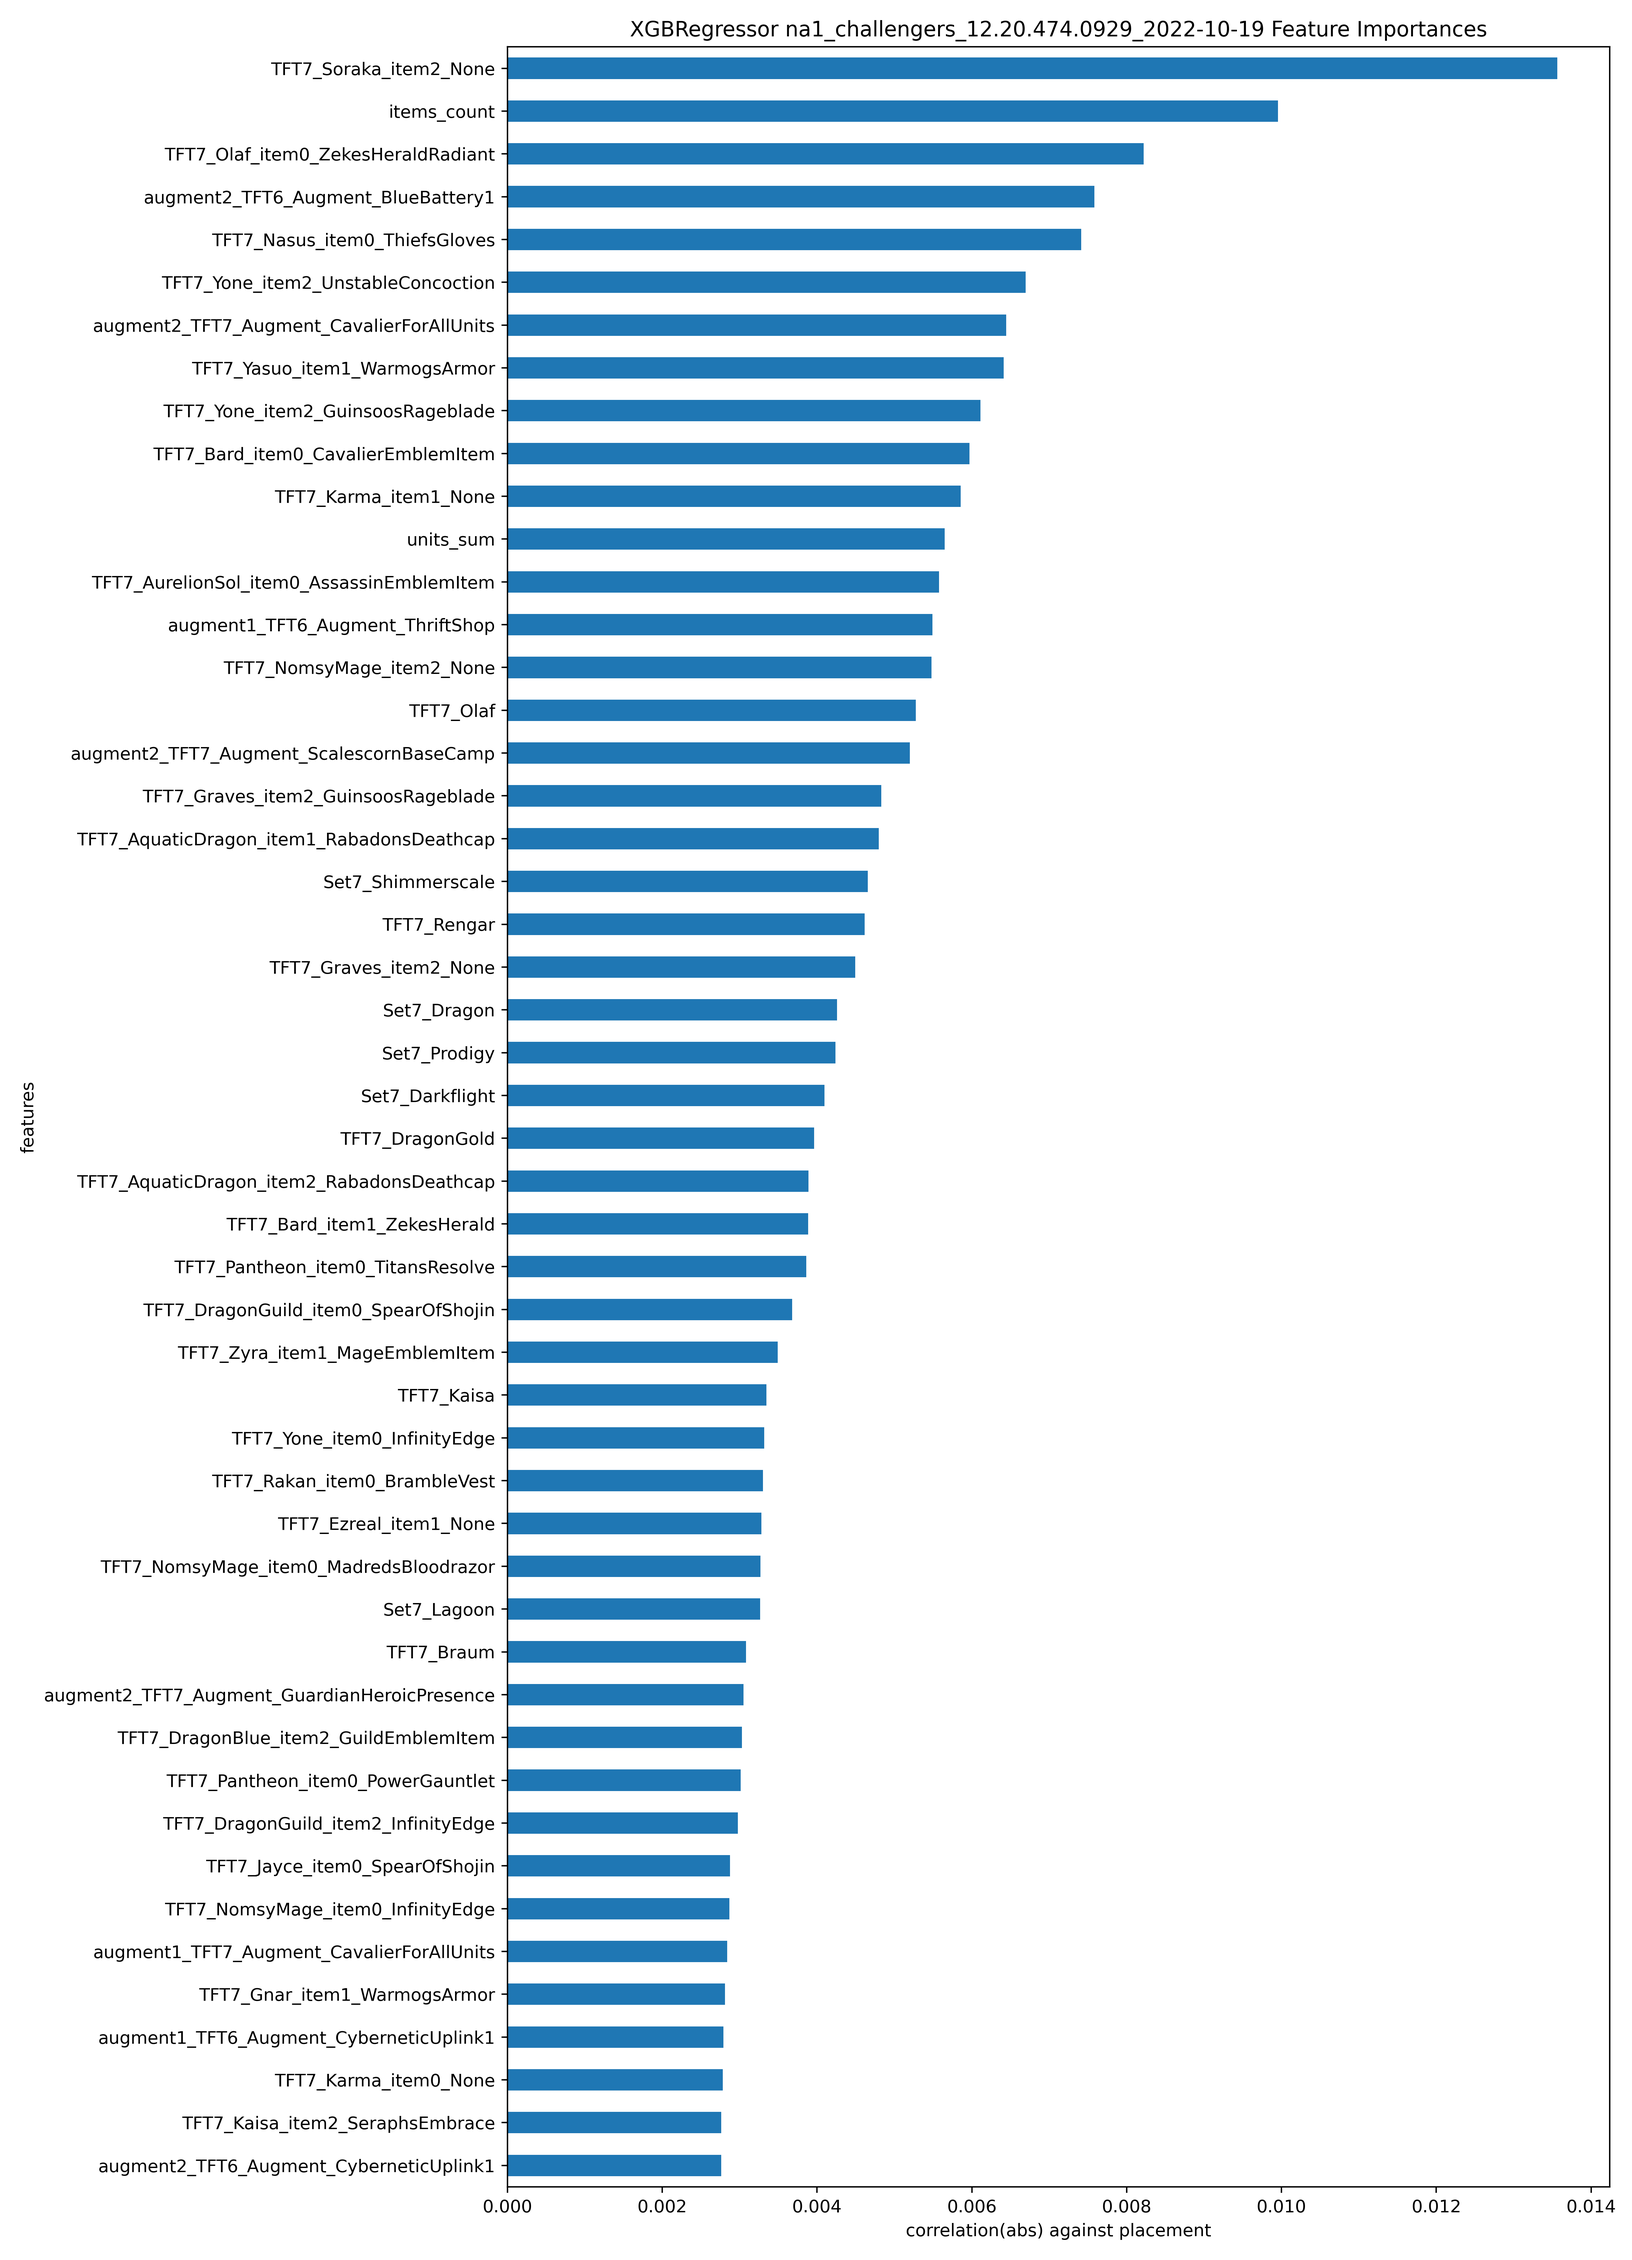
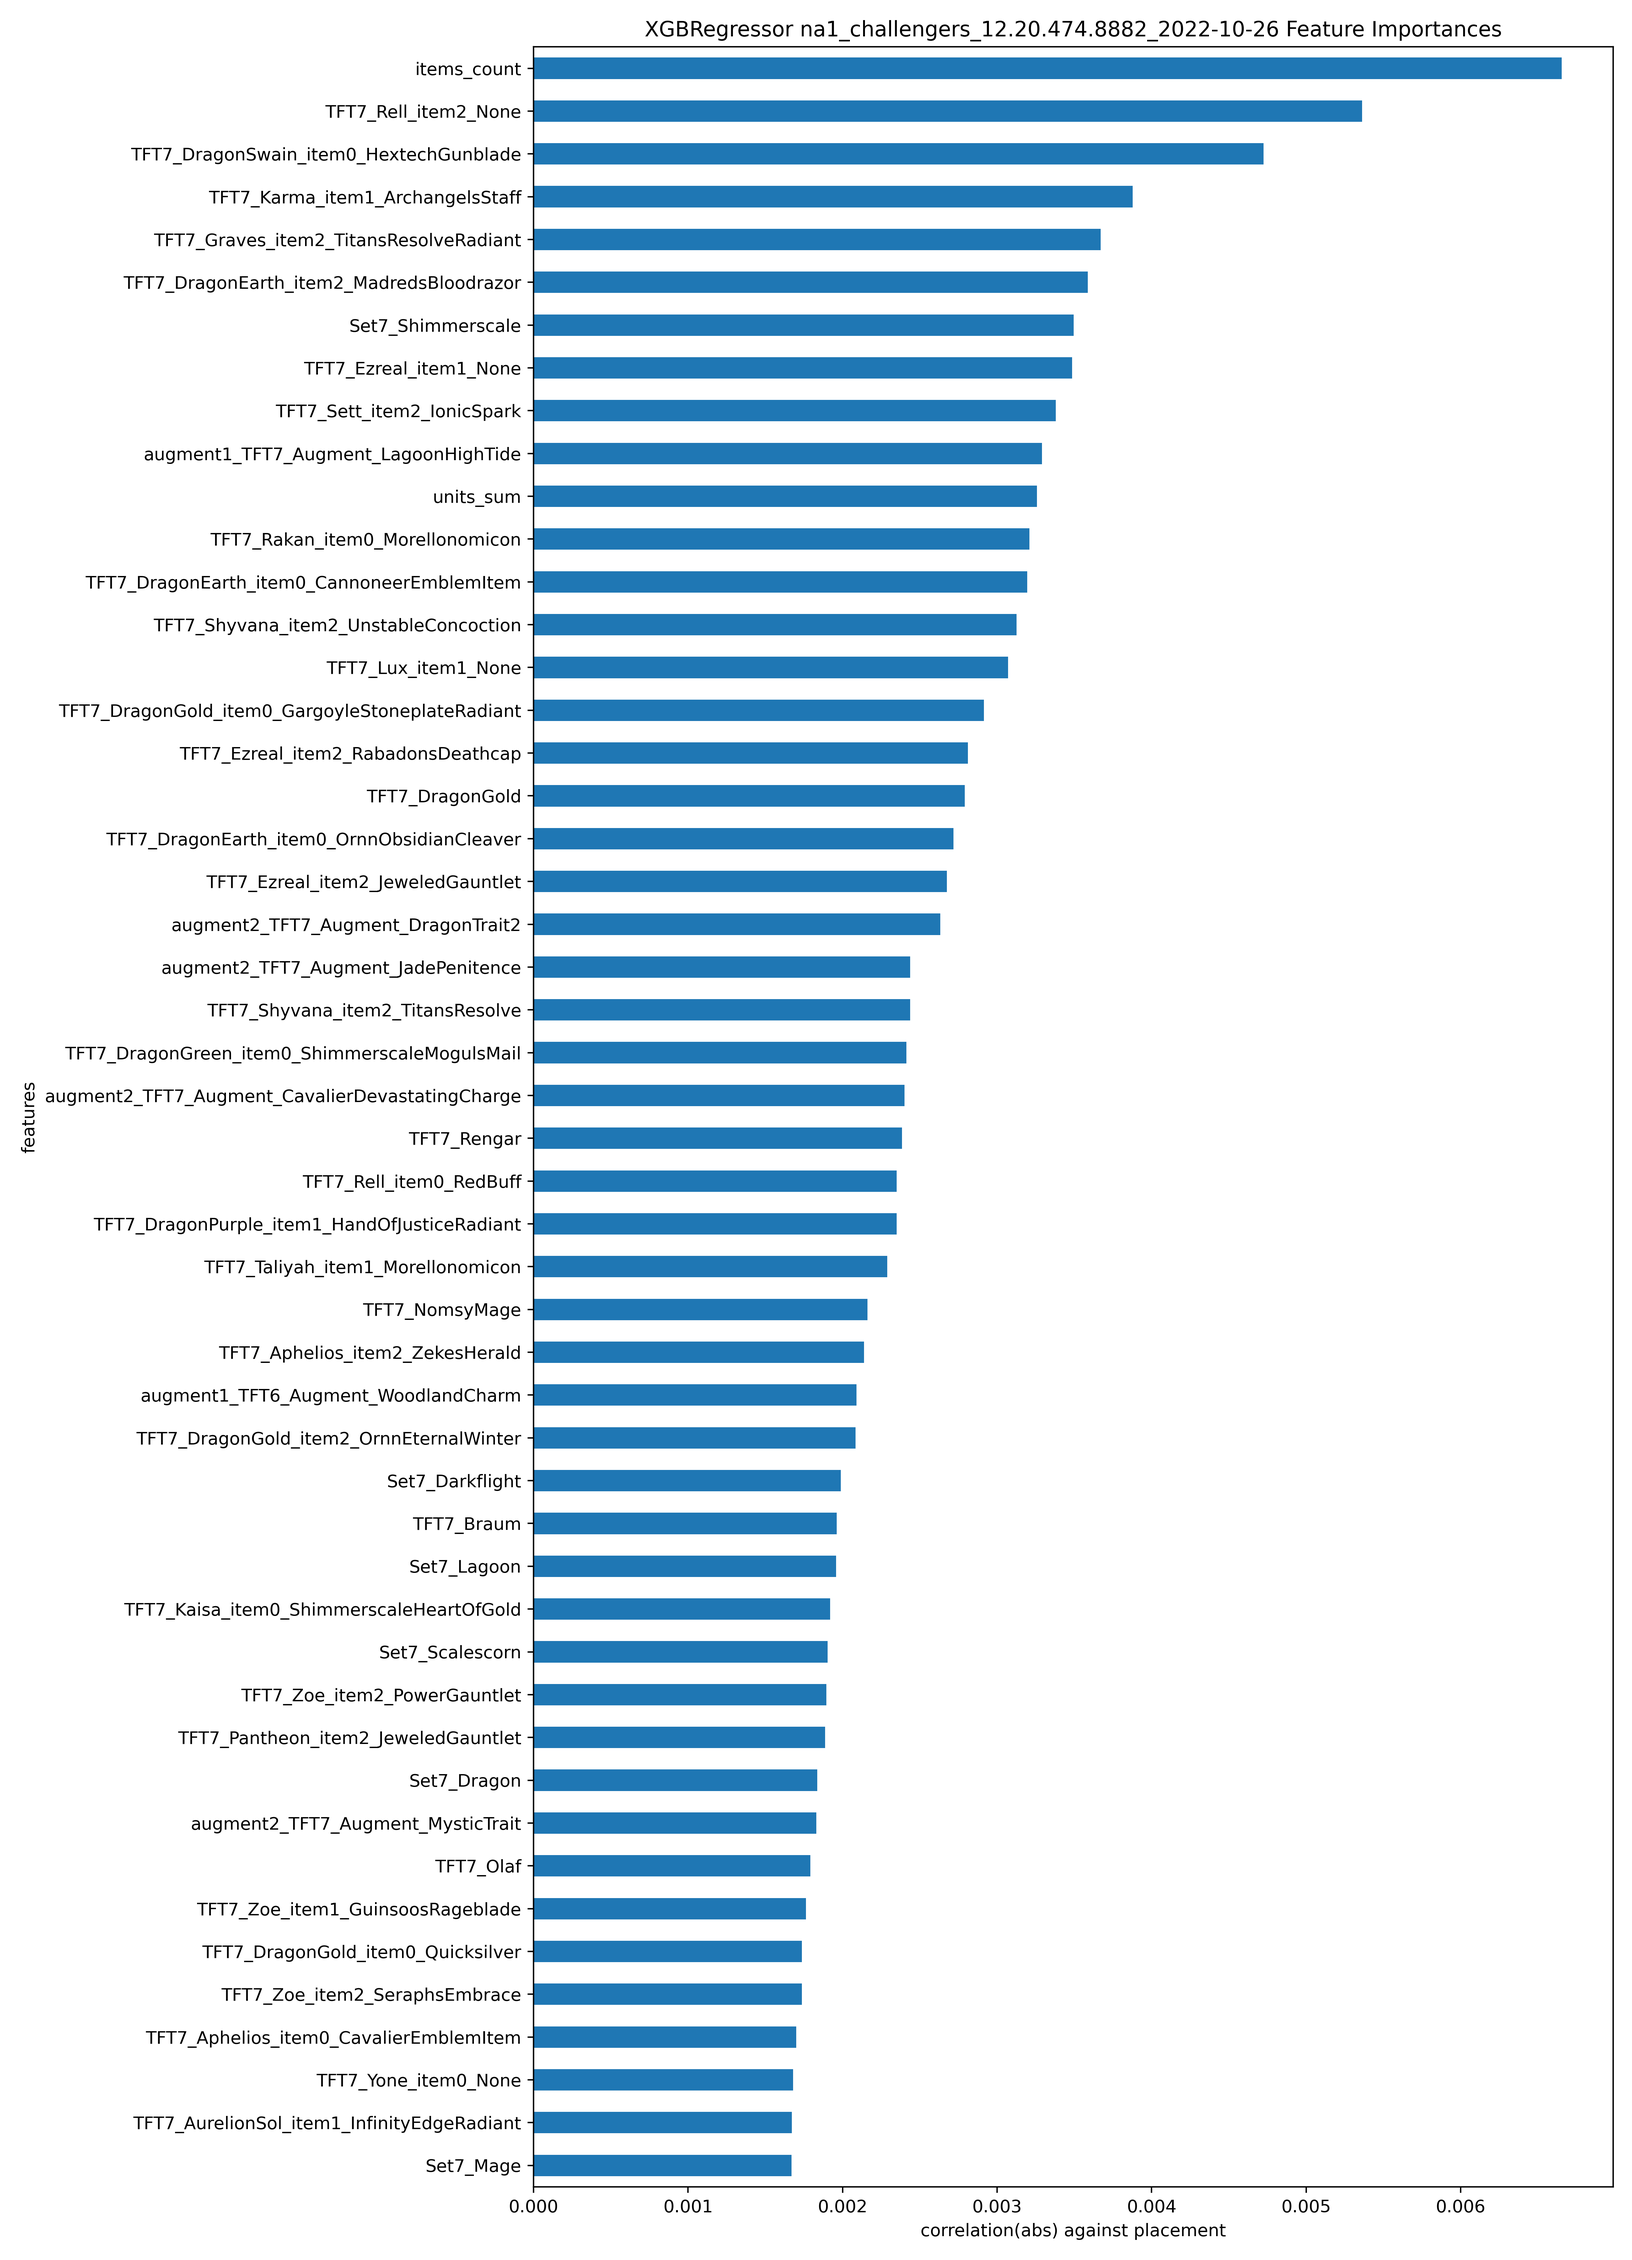
Version 12.20.474.8882 (Oct 20 2022/13:06:55) [PUBLIC]  patch

diff --git a/README.md b/README.md
@@ -215,8 +215,8 @@ Create and store in ./tftchamp/backend/app/.env
 ATLAS_URI=mongodb+srv://<username>:<password>@sandbox.lqlql.mongodb.net/?retryWrites=true&w=majority
 DB_NAME=tftchamp
 RIOT_API_KEY="RGAPI-blah-blah-blah"
-PATCH=2022-10-19
-LATEST_RELEASE=12.20.474.0929
+PATCH=2022-10-26
+LATEST_RELEASE=12.20.474.8882
 ```
 
 ```sh
@@ -234,8 +234,8 @@ Create and store in ./tftchamp/backend/pipeline/.env
 ATLAS_URI=mongodb+srv://<username>:<password>@sandbox.lqlql.mongodb.net/?retryWrites=true&w=majority
 DB_NAME=tftchamp
 RIOT_API_KEY="RGAPI-blah-blah-blah"
-PATCH=2022-10-19
-LATEST_RELEASE=12.20.474.0929
+PATCH=2022-10-26
+LATEST_RELEASE=12.20.474.8882
 ```
 
 1. scrape
@@ -386,19 +386,19 @@ https://www.mongodb.com/atlas/database
 
 
 ## Recent rankings
-2022-10-19 v12.19
+2022-10-26 v12.19
 
 ### top5_items
-![tftfi00](./backend/pipeline/assets/na1_challengers_12.20.474.0929_2022-10-19_top5_items.png)
-### kmeans_comp_ranking12.20.474.0929_2022-10-19
-![tftfi00](./backend/pipeline/assets/na1_challengers_12.20.474.0929_2022-10-19_kmeans_comp_ranking.png)
+![tftfi00](./backend/pipeline/assets/na1_challengers_12.20.474.8882_2022-10-26_top5_items.png)
+### kmeans_comp_ranking12.20.474.8882_2022-10-26
+![tftfi00](./backend/pipeline/assets/na1_challengers_12.20.474.8882_2022-10-26_kmeans_comp_ranking.png)
 ### dbscan_comp_ranking
-![tftfi00](./backend/pipeline/assets/na1_challengers_12.20.474.0929_2022-10-19_dbscan_comp_ranking.png)
+![tftfi00](./backend/pipeline/assets/na1_challengers_12.20.474.8882_2022-10-26_dbscan_comp_ranking.png)
 ### augments_stage2-1_ranking
-![tftfi00](./backend/pipeline/assets/na1_challengers_12.20.474.0929_2022-10-19_augment0_ranking.png)
+![tftfi00](./backend/pipeline/assets/na1_challengers_12.20.474.8882_2022-10-26_augment0_ranking.png)
 ### augments_stage3-2_ranking
-![tftfi00](./backend/pipeline/assets/na1_challengers_12.20.474.0929_2022-10-19_augment1_ranking.png)
+![tftfi00](./backend/pipeline/assets/na1_challengers_12.20.474.8882_2022-10-26_augment1_ranking.png)
 ### augments_stage4-2_ranking
-![tftfi00](./backend/pipeline/assets/na1_challengers_12.20.474.0929_2022-10-19_augment2_ranking.png)
+![tftfi00](./backend/pipeline/assets/na1_challengers_12.20.474.8882_2022-10-26_augment2_ranking.png)
 
 ![tftfi00](./assets/XGBRegressor_ActualvsPredicted.png)
